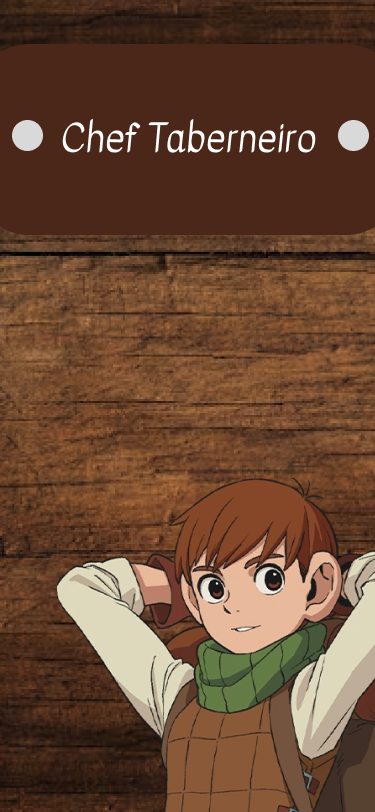
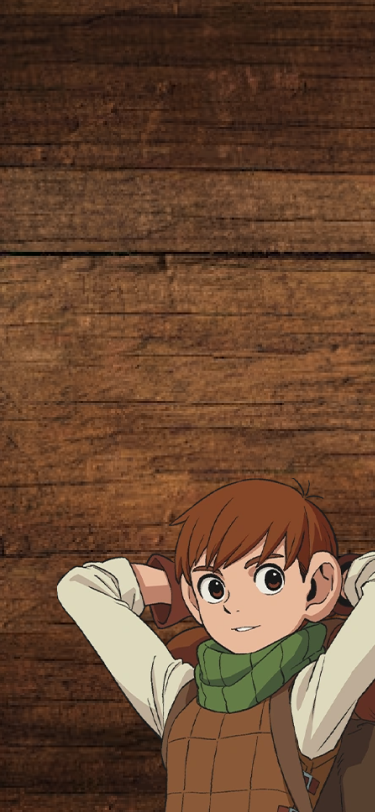
Ajuste de styles

Changed region(s): [[0.0, 0.0308, 1.0, 0.3079], [0.8507, 0.0924, 0.88, 0.1232], [0.7333, 0.0616, 0.7627, 0.0924]]

diff --git a/chef_taverneiro/src/Pages/Home/styleHome.tsx b/chef_taverneiro/src/Pages/Home/styleHome.tsx
@@ -11,25 +11,21 @@ export const styles = StyleSheet.create({
   },
 
     tarjacheftaberneiro: {
-        verticalAlign:'top',
-        width: '100%',
-        height: 50,
-        marginLeft:0,
-        marginTop:0,
-        marginBottom:0,
-        alignItems:'center',
+      width: 'auto',
+      alignItems:'center',
     },
 
     textInput: {
-        marginTop: 10,
-        marginBottom: 10,
+        marginTop: 5,
+        padding: 5,
         borderRadius: 8,
-        width: 300, 
+        width: '90%', 
         height: 50,
         backgroundColor: 'rgba(233, 233, 233, 0.8)',
         paddingHorizontal: 10,
         fontSize: 16,
-        alignSelf: 'center'
+        alignSelf: 'center', 
+        bottom: 25
     }
 
 }

diff --git a/chef_taverneiro/src/Pages/Profile/styleProfile.tsx b/chef_taverneiro/src/Pages/Profile/styleProfile.tsx
@@ -26,8 +26,8 @@ export const styles = StyleSheet.create({
 
       profileIcon: {
         position: 'absolute',
-        left: '5.5%',
-        top: '16%',
+        left: '10%',
+        top: '20%',
         opacity:0.7
         },
 
